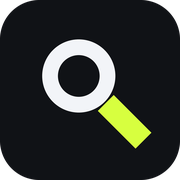
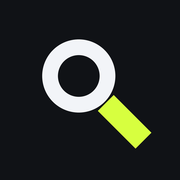
Square every corner
No rounding anywhere: the four pills (99px), the inputs, buttons, panels,
dropdown, scrollbar thumb, focus ring, the Entry band bar and the --radius
token, across both pages. 18 radii in index.html, 6 in export.html.

Pills carried wide side padding to clear their curve, which reads as slack
once the edges are square, so the chips, the UCAS tag and the starter
buttons are a notch tighter. The UCAS tag also drops a pixel of height,
since a 19px pill and a 19px rectangle do not sit the same.

The favicon tile loses its rx too, and the .ico and apple-touch-icon are
regenerated from the same geometry so they do not drift from the SVG.

diff --git a/public/index.html b/public/index.html
@@ -17,7 +17,7 @@
     --text:#f2f4f8; --dim:#a4aebd; --accent:#6ba7ff; --accent2:#2bd4a4;
     --action:#d7ff3f; --action-hover:#e2ff75; --action-ink:#172000;
     --action-tint:#293218;
-    --warn:#ffb020; --radius:8px;
+    --warn:#ffb020; --radius:0;
     /* A faint hairline for inside the table, so 30 rows of full-strength
        --line do not read as a grid. */
     --line2:#1e242e;
@@ -29,13 +29,13 @@
     --stickh:93px;  /* headh + barh, so thead sticks under both */
   }
   *{box-sizing:border-box}
-  *:focus-visible{outline:none;box-shadow:var(--ring);border-radius:4px}
+  *:focus-visible{outline:none;box-shadow:var(--ring);border-radius:0}
   ::selection{background:rgba(91,157,255,.3)}
   /* Dark scrollbars; the default light ones cut through the theme. */
   *{scrollbar-color:#2e3643 transparent}
   ::-webkit-scrollbar{width:10px;height:10px}
   ::-webkit-scrollbar-track{background:transparent}
-  ::-webkit-scrollbar-thumb{background:#2e3643;border-radius:5px;border:2px solid var(--bg)}
+  ::-webkit-scrollbar-thumb{background:#2e3643;border-radius:0;border:2px solid var(--bg)}
   ::-webkit-scrollbar-thumb:hover{background:#3b4553}
   *{box-sizing:border-box}
   body{margin:0;background:var(--bg);color:var(--text);
@@ -48,7 +48,7 @@
   h1 span{color:var(--action)}
   .grow{flex:1}
   input,select,button{font:inherit;font-size:13px;color:var(--text);
-    background:var(--panel2);border:1px solid var(--line);border-radius:6px;
+    background:var(--panel2);border:1px solid var(--line);border-radius:0;
     padding:6px 9px;outline:none;transition:border-color .12s,background .12s}
   input::placeholder{color:#939fb1}
   input:hover,select:hover{border-color:#333d4d}
@@ -97,11 +97,11 @@
   .welcome h2{font-size:clamp(28px,4vw,40px);font-weight:650;letter-spacing:-1.2px;line-height:1.15;margin:14px 0}
   .welcome p{color:var(--dim);font-size:16px;line-height:1.65;margin:0 auto;max-width:440px}
   .examples{display:flex;justify-content:center;gap:8px;flex-wrap:wrap;margin:24px 0}
-  .examples button{padding:9px 14px;border-radius:99px;background:var(--panel);color:#cbd7e8}
+  .examples button{padding:9px 13px;border-radius:0;background:var(--panel);color:#cbd7e8}
   .examples button:hover:not(:disabled){border-color:var(--action);color:var(--action);background:var(--action-tint)}
   .welcome .hint{font-size:12px;color:var(--dim)}
   .starter-paths{display:grid;grid-template-columns:repeat(2,minmax(0,1fr));gap:24px;margin-top:32px;text-align:left}
-  .starter-path{min-width:0;padding:24px;background:var(--panel);border:1px solid var(--line);border-radius:12px}
+  .starter-path{min-width:0;padding:24px;background:var(--panel);border:1px solid var(--line);border-radius:0}
   .starter-path h3{font-size:22px;margin:0 0 8px;font-weight:650;letter-spacing:-.3px}
   .starter-path p{max-width:none;margin:0}
   .starter-path .examples{justify-content:flex-start;margin:24px 0}
@@ -140,8 +140,8 @@
     position:sticky;top:var(--headh);z-index:19}
   .bar label{color:var(--dim);font-size:11px;text-transform:uppercase;
     letter-spacing:.5px;margin-right:1px;white-space:nowrap}
-  .chip{background:var(--panel2);border:1px solid var(--line);border-radius:99px;
-    padding:3px 10px;font-size:11.5px;color:var(--dim);white-space:nowrap;
+  .chip{background:var(--panel2);border:1px solid var(--line);border-radius:0;
+    padding:3px 8px;font-size:11.5px;color:var(--dim);white-space:nowrap;
     font-variant-numeric:tabular-nums}
   .chip b{color:var(--text);font-weight:600}
   .note{padding:8px 16px;background:#241d11;border-bottom:1px solid #45371a;
@@ -230,7 +230,7 @@
   th.c-link{cursor:default}
   th.c-link:hover{background:none}
   a.ext{display:inline-flex;align-items:center;justify-content:center;
-    height:19px;padding:0 9px;border-radius:99px;
+    height:18px;padding:0 7px;border-radius:0;
     color:#8b97a8;background:var(--panel2);border:1px solid var(--line);
     font-size:10px;font-weight:600;letter-spacing:.5px;line-height:1;
     text-decoration:none;transition:all .12s}
@@ -256,7 +256,7 @@
   .code.none{color:#3c4452}
 
   .tag{display:inline-block;background:var(--panel2);border:1px solid var(--line);
-    border-radius:4px;padding:0 5px;font-size:10.5px;color:var(--dim);
+    border-radius:0;padding:0 5px;font-size:10.5px;color:var(--dim);
     margin-left:6px;vertical-align:1px;font-variant-numeric:tabular-nums}
   tbody tr:hover .tag{border-color:#333d4d}
 
@@ -275,7 +275,7 @@
   td.c-band{padding:0 10px}
   .bnd{display:inline-flex;align-items:center;gap:6px;font-size:11.5px;
     color:var(--dim);white-space:nowrap}
-  .bnd i{width:26px;height:5px;border-radius:3px;flex:none;font-style:normal}
+  .bnd i{width:26px;height:5px;border-radius:0;flex:none;font-style:normal}
   .bnd.b1 i{background:#2f6f5e}  .bnd.b1{color:#7fb8a6}
   .bnd.b2 i{background:#3b7f8c}  .bnd.b2{color:#84bcc8}
   .bnd.b3 i{background:#4a7fb5}  .bnd.b3{color:#92b6dc}
@@ -313,14 +313,14 @@
     font-weight:500}
   #panel .px{position:absolute;top:10px;right:11px;background:none;border:0;
     color:var(--dim);font-size:19px;line-height:1;cursor:pointer;padding:2px 6px;
-    border-radius:4px}
+    border-radius:0}
   #panel .px:hover{color:var(--text);background:var(--panel2)}
   #panel .cta{display:block;text-align:center;background:var(--action);
-    color:var(--action-ink);font-weight:650;font-size:13px;padding:9px;border-radius:6px;
+    color:var(--action-ink);font-weight:650;font-size:13px;padding:9px;border-radius:0;
     text-decoration:none;box-shadow:var(--shadow);transition:background .12s}
   #panel .cta:hover{background:var(--action-hover);text-decoration:none}
   #panel .cta2{display:block;text-align:center;border:1px solid var(--line);
-    color:var(--dim);font-size:12.5px;padding:6px;border-radius:6px;margin-top:7px;
+    color:var(--dim);font-size:12.5px;padding:6px;border-radius:0;margin-top:7px;
     text-decoration:none}
   #panel .cta2:hover{color:var(--text);border-color:var(--dim);text-decoration:none}
   /* Label/value grid — reads as a spec sheet rather than a paragraph. */
@@ -335,7 +335,7 @@
   .big.prev{color:#7fa8c9;font-weight:600}
   .biglab{color:var(--dim);font-size:10.5px;text-transform:uppercase;
     letter-spacing:.6px;margin-bottom:5px;font-weight:600}
-  .pbox{background:var(--panel2);border:1px solid var(--line);border-radius:7px;
+  .pbox{background:var(--panel2);border:1px solid var(--line);border-radius:0;
     padding:12px 14px;margin-bottom:16px}
   .pbox .sub{margin-top:6px;line-height:1.5}
   .psec{color:var(--dim);font-size:10.5px;text-transform:uppercase;
@@ -343,7 +343,7 @@
   .psec:first-child{margin-top:0}
   .nav{display:flex;gap:6px;align-items:center;margin-top:12px}
   .nav button{flex:1;background:transparent;border:1px solid var(--line);
-    color:var(--dim);border-radius:5px;padding:5px;cursor:pointer;font-size:11.5px}
+    color:var(--dim);border-radius:0;padding:5px;cursor:pointer;font-size:11.5px}
   .nav button:hover:not(:disabled){color:var(--text);border-color:#3d4a5c;
     background:var(--panel2)}
   .nav button:disabled{opacity:.3;cursor:default}
@@ -367,16 +367,16 @@
   .combo .clear:hover{color:var(--text)}
   .menu{position:absolute;top:calc(100% + 5px);left:0;z-index:40;
     min-width:340px;max-height:340px;overflow-y:auto;padding:4px;
-    background:#1a2029;border:1px solid #2d3745;border-radius:8px;
+    background:#1a2029;border:1px solid #2d3745;border-radius:0;
     box-shadow:0 14px 38px rgba(0,0,0,.55)}
   .menu .opt{padding:6px 9px;cursor:pointer;display:flex;gap:10px;
-    align-items:baseline;border-radius:5px}
+    align-items:baseline;border-radius:0}
   .menu .opt:hover,.menu .opt.active{background:#263349}
   .menu .opt .nm{flex:1;min-width:0}
   .menu .opt .ct{color:var(--dim);font-size:11.5px;white-space:nowrap}
   .menu .opt .alias{display:block;color:var(--dim);font-size:11px;margin-top:1px}
   .menu .none{padding:10px;color:var(--dim);font-size:12.5px}
-  .menu mark{background:rgba(91,157,255,.28);color:var(--text);border-radius:2px}
+  .menu mark{background:rgba(91,157,255,.28);color:var(--text);border-radius:0}
   /* Every active filter, on a full-width row under the search bar. It gets the
      whole width, so a five-university shortlist stays on one line where the
      460px column could not. */
@@ -389,8 +389,8 @@
     text-underline-offset:2px;cursor:pointer}
   .clear-all:hover{color:#ff7b72;background:none;border:none}
   .pchips{display:contents}
-  .pchip{background:var(--action-tint);border:1px solid #61752a;border-radius:99px;
-    padding:2px 5px 2px 10px;font-size:12px;display:inline-flex;align-items:center;
+  .pchip{background:var(--action-tint);border:1px solid #61752a;border-radius:0;
+    padding:2px 4px 2px 8px;font-size:12px;display:inline-flex;align-items:center;
     gap:6px;max-width:230px;min-width:0;flex:0 1 auto;transition:border-color .12s}
   .pchip:hover{border-color:var(--action)}
   /* Advanced filters read as key + value and are neutral, so the green chips

diff --git a/public/export.html b/public/export.html
@@ -10,7 +10,7 @@
   :root{
     --bg:#0f1115; --panel:#161a21; --panel2:#1b2029; --line:#262d39;
     --text:#e6e9ef; --dim:#98a2b3; --accent:#5b9dff; --accent2:#2bd4a4;
-    --warn:#ffb020; --radius:8px;
+    --warn:#ffb020; --radius:0;
   }
   *{box-sizing:border-box}
   body{margin:0;background:var(--bg);color:var(--text);
@@ -22,7 +22,7 @@
   header a{margin-left:auto;color:var(--dim);font-size:13px;text-decoration:none}
   header a:hover{color:var(--accent)}
   .wrap{max-width:900px;margin:0 auto;padding:22px 18px 70px}
-  .card{background:var(--panel);border:1px solid var(--line);border-radius:10px;
+  .card{background:var(--panel);border:1px solid var(--line);border-radius:0;
     padding:16px 18px;margin-bottom:16px}
   .card h2{font-size:13px;margin:0 0 12px;color:var(--dim);
     text-transform:uppercase;letter-spacing:.6px;font-weight:650}
@@ -51,7 +51,7 @@
   .menu .opt .nm{flex:1}
   .menu .opt .ct{color:var(--dim);font-size:11.5px}
   .chips{display:flex;flex-wrap:wrap;gap:6px;margin-top:10px}
-  .chip{background:var(--panel2);border:1px solid var(--line);border-radius:99px;
+  .chip{background:var(--panel2);border:1px solid var(--line);border-radius:0;
     padding:4px 8px 4px 11px;font-size:12.5px;display:flex;align-items:center;gap:7px}
   .chip b{font-weight:600}
   .chip .ct{color:var(--dim);font-size:11px}
@@ -67,7 +67,7 @@
   .cost{margin-top:14px;padding:10px 12px;border-radius:var(--radius);
     background:#2a2113;border:1px solid #4a3a1b;color:#f0cf95;font-size:12.5px}
   .cost.ok{background:#12251c;border-color:#1f4432;color:#8fd9b6}
-  .bar{height:6px;background:var(--panel2);border-radius:99px;overflow:hidden;margin:14px 0 6px}
+  .bar{height:6px;background:var(--panel2);border-radius:0;overflow:hidden;margin:14px 0 6px}
   .bar i{display:block;height:100%;background:var(--accent);width:0;transition:width .3s}
   .log{font:12px ui-monospace,SFMono-Regular,Consolas,monospace;color:var(--dim);
     max-height:200px;overflow-y:auto;white-space:pre-wrap;margin-top:8px}
